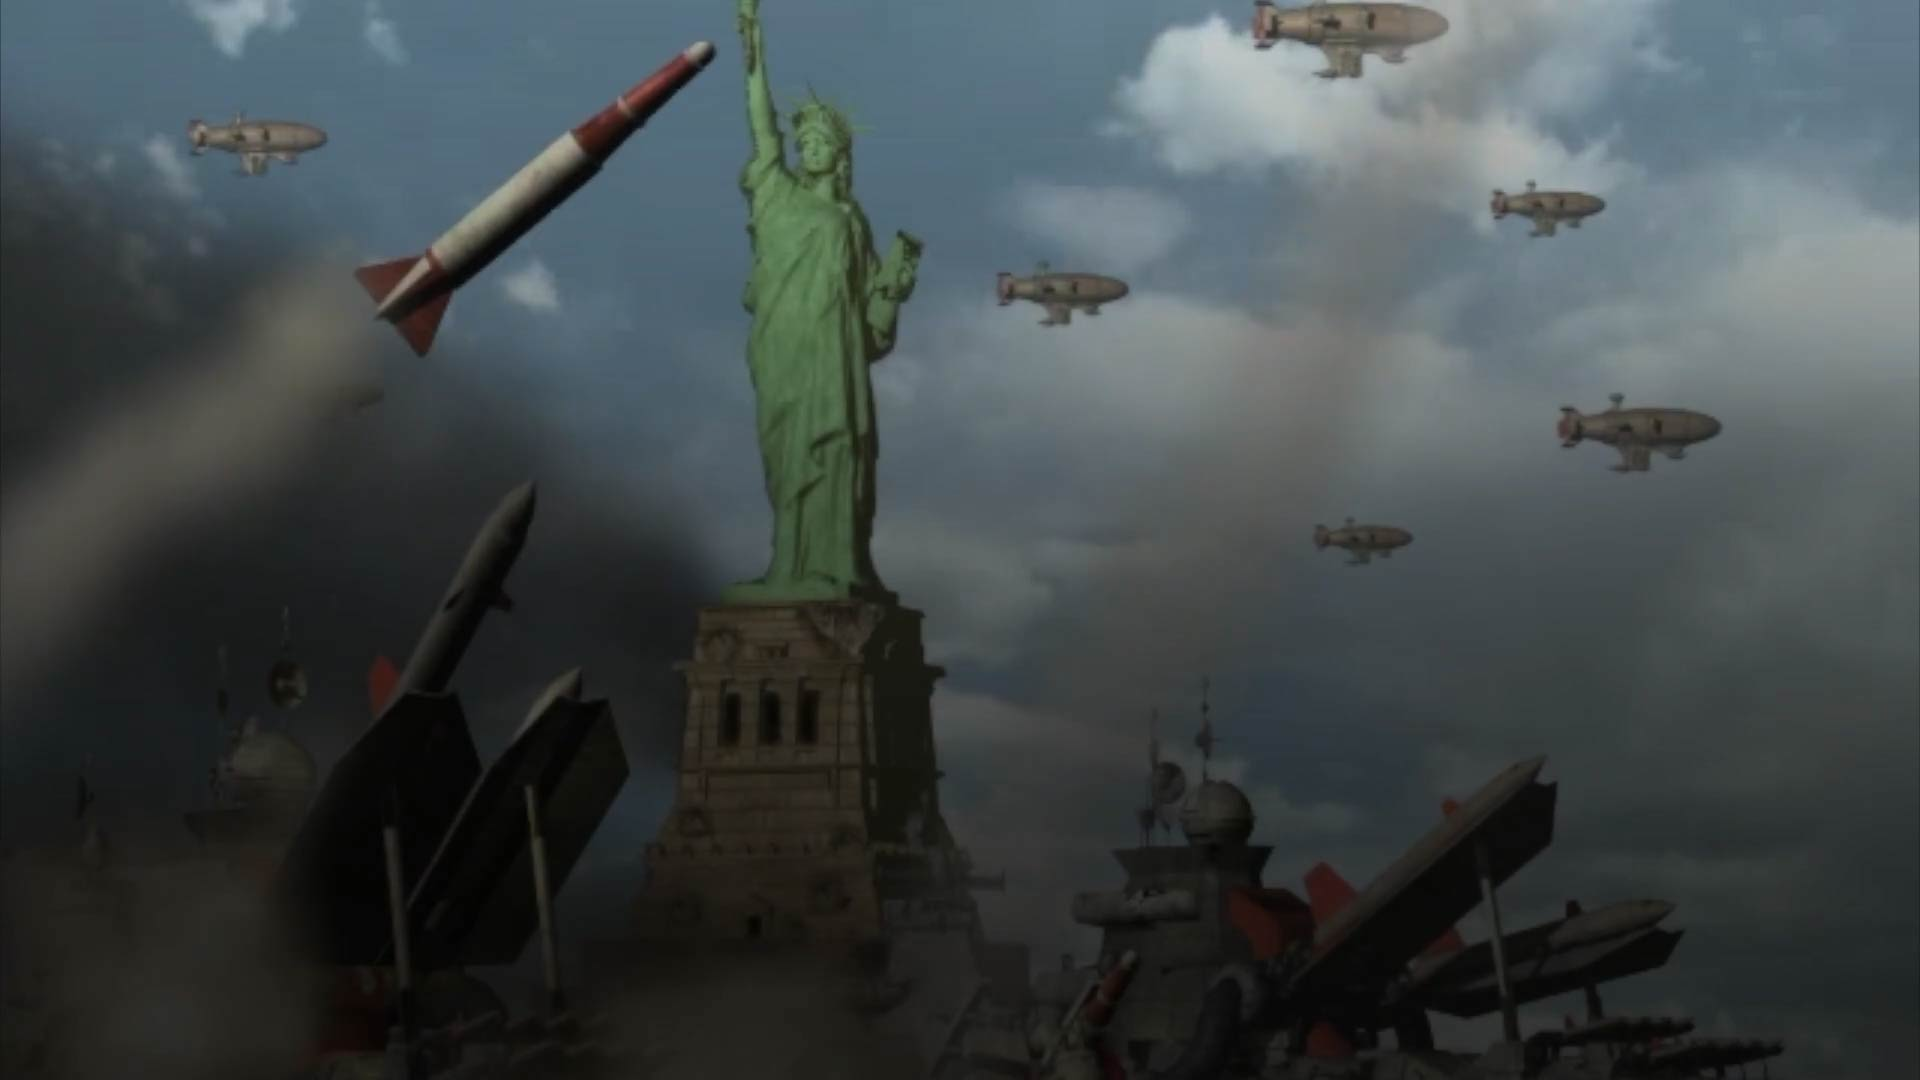
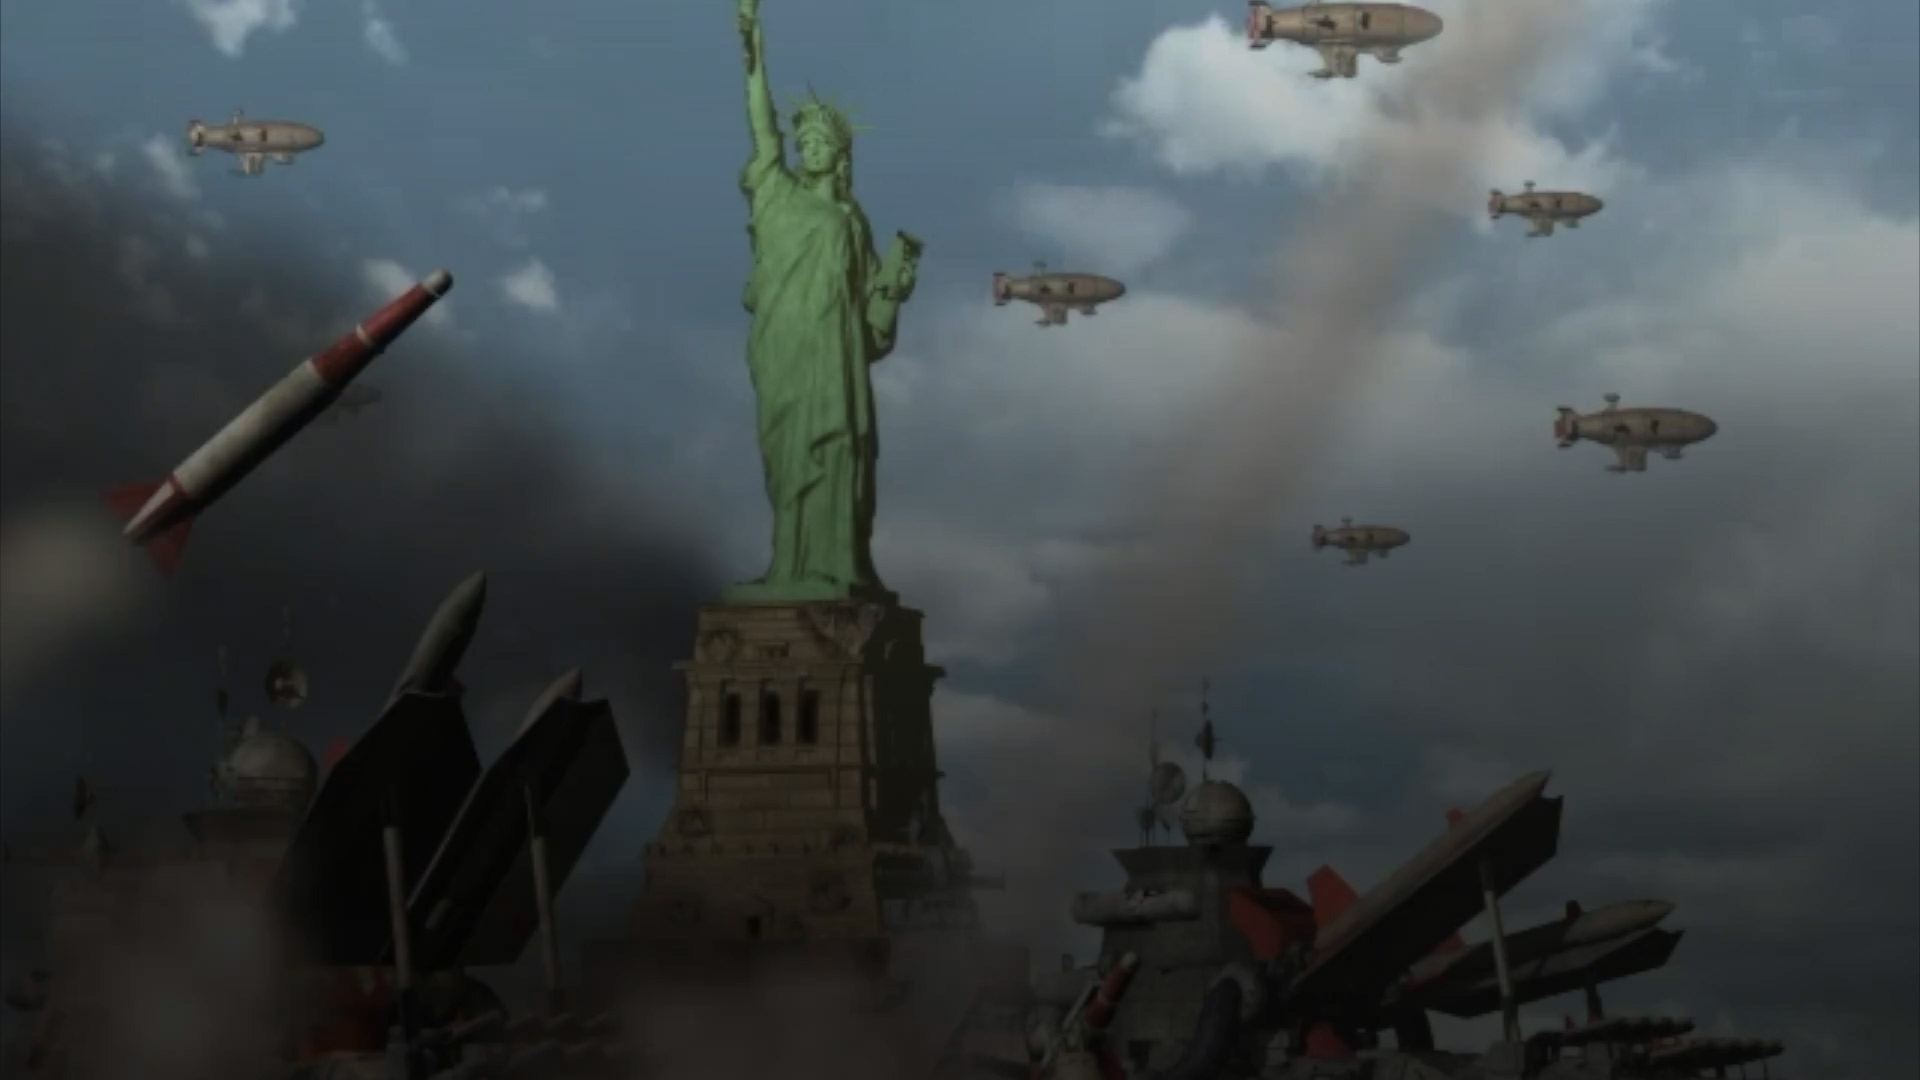
Update page with TT

diff --git a/src/resources/stylesheets/components/_hero.scss b/src/resources/stylesheets/components/_hero.scss
@@ -141,8 +141,8 @@
     @media(min-width: $xl-width)
     {
         max-width: 50vw;
-        padding-top: calc(12vh + 80px);
-        padding-bottom: calc(12vh + 80px);
+        padding-top: calc(14vh + 80px);
+        padding-bottom: calc(10vh + 80px);
     }
 }
 

diff --git a/src/app/Constants.php b/src/app/Constants.php
@@ -53,7 +53,7 @@ class Constants
     
     public static function getVideoWithPoster($slug)
     {
-        $version = 1.2;
+        $version = 1.3;
         $cdnUrl = "//cdn.jsdelivr.net/gh/cnc-community/files@". $version . "/";
         $posterSrc = "/assets/images/posters/";
 
@@ -92,11 +92,11 @@ class Constants
                 "poster" => $posterSrc . "tiberium-wars.jpg"
             ],
             "red-alert-3" => [ 
-                "src" => $cdnUrl . "red-alert-3",
+                "src" => $cdnUrl . "red-alert-3.mp4",
                 "poster" => $posterSrc . "red-alert-3.jpg"
             ],
             "command-and-conquer-4" => [ 
-                "src" => $cdnUrl . "command-and-conquer-4",
+                "src" => $cdnUrl . "tiberium-twighlight.mp4",
                 "poster" => $posterSrc . "command-and-conquer-4.jpg"
             ],
             "default" => [

diff --git a/src/resources/views/games/category-more.blade.php b/src/resources/views/games/category-more.blade.php
@@ -6,6 +6,11 @@
 @section('page-class', 'category-more')
 @section('hero-class', 'hero-'. $category->slug)
 
+@section('hero-video')
+<?php $heroVideo = \App\Constants::getVideoWithPoster("command-and-conquer-4"); ?>
+<?php new \App\Http\CustomView\Components\VideoPlayer($heroVideo); ?>
+@endsection
+
 @section('hero')
 <div class="content center">
     <h1>
